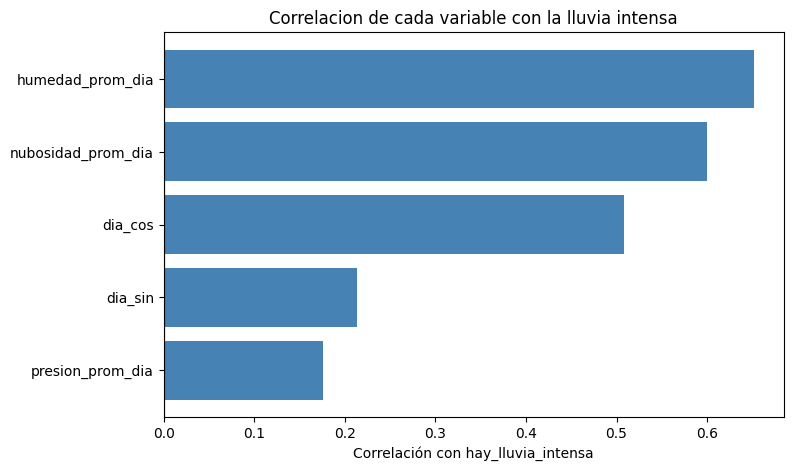
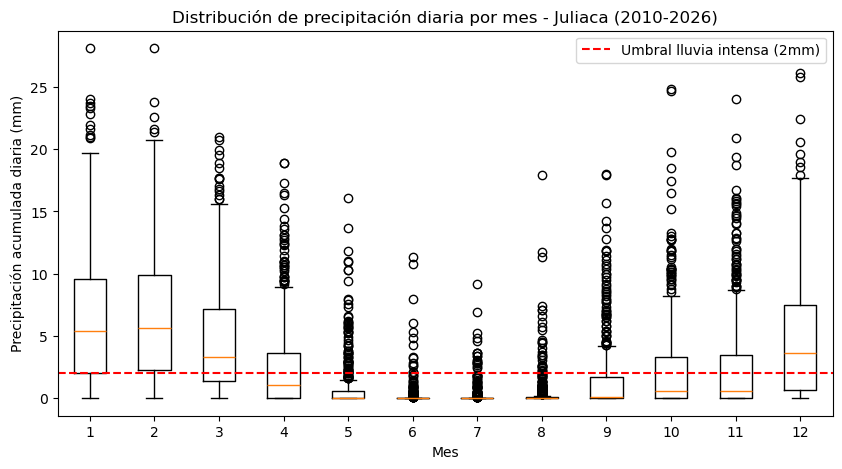
Actualizar resultados de precipitacion

diff --git a/docs/resultados/precipitacion/02_precipitacion_nayder.md b/docs/resultados/precipitacion/02_precipitacion_nayder.md
@@ -22,15 +22,6 @@ spark = (
 spark
 ```
 
-    WARNING: Using incubator modules: jdk.incubator.vector
-    Using Spark's default log4j profile: org/apache/spark/log4j2-defaults.properties
-    Setting default log level to "WARN".
-    To adjust logging level use sc.setLogLevel(newLevel). For SparkR, use setLogLevel(newLevel).
-    26/09/09 13:07:53 WARN NativeCodeLoader: Unable to load native-hadoop library for your platform... using builtin-java classes where applicable
-    26/09/09 13:07:54 WARN Utils: Service 'SparkUI' could not bind on port 4040. Attempting port 4041.
-    26/09/09 13:07:54 WARN Utils: Service 'SparkUI' could not bind on port 4041. Attempting port 4042.
-
-
 
 
 
@@ -41,11 +32,11 @@ spark
 <div>
     <p><b>SparkContext</b></p>
 
-    <p><a href="http://a59cd1fa6c04:4042">Spark UI</a></p>
+    <p><a href="http://611f57b01f92:4040">Spark UI</a></p>
 
     <dl>
       <dt>Version</dt>
-        <dd><code>v4.2.0</code></dd>
+        <dd><code>v3.5.0</code></dd>
       <dt>Master</dt>
         <dd><code>local[*]</code></dd>
       <dt>AppName</dt>
@@ -64,7 +55,7 @@ spark
 ```python
 from pyspark.sql.types import StructType, StructField, TimestampType, DoubleType
 
-ORIGEN_DATOS = "/opt/bigdata-u1/data"
+ORIGEN_DATOS = "data"
 
 schema_clima = StructType([
     StructField("time", TimestampType(), nullable=False),
@@ -106,6 +97,57 @@ print(f"Total filas: {df.count():,}")
     |2010-01-01 04:00:00|           4.9|          0.0|                83.0|       85.0|           5.9|           643.2|
     +-------------------+--------------+-------------+--------------------+-----------+--------------+----------------+
     only showing top 5 rows
+    
+    Total filas: 146,280
+
+
+
+```python
+from pyspark.sql.types import StructType, StructField, TimestampType, DoubleType
+
+ORIGEN_DATOS = "data"
+
+schema_clima = StructType([
+    StructField("time", TimestampType(), nullable=False),
+    StructField("temperature_2m", DoubleType(), nullable=True),
+    StructField("precipitation", DoubleType(), nullable=True),
+    StructField("relative_humidity_2m", DoubleType(), nullable=True),
+    StructField("cloud_cover", DoubleType(), nullable=True),
+    StructField("wind_speed_10m", DoubleType(), nullable=True),
+    StructField("surface_pressure", DoubleType(), nullable=True),
+])
+
+df = (
+    spark.read
+    .option("timestampFormat", "yyyy-MM-dd'T'HH:mm")
+    .csv(f"{ORIGEN_DATOS}/clima_juliaca_horario.csv", header=True, schema=schema_clima)
+)
+
+df.printSchema()
+df.show(5)
+print(f"Total filas: {df.count():,}")
+```
+
+    root
+     |-- time: timestamp (nullable = true)
+     |-- temperature_2m: double (nullable = true)
+     |-- precipitation: double (nullable = true)
+     |-- relative_humidity_2m: double (nullable = true)
+     |-- cloud_cover: double (nullable = true)
+     |-- wind_speed_10m: double (nullable = true)
+     |-- surface_pressure: double (nullable = true)
+    
+    +-------------------+--------------+-------------+--------------------+-----------+--------------+----------------+
+    |               time|temperature_2m|precipitation|relative_humidity_2m|cloud_cover|wind_speed_10m|surface_pressure|
+    +-------------------+--------------+-------------+--------------------+-----------+--------------+----------------+
+    |2010-01-01 00:00:00|           6.8|          0.0|                84.0|       93.0|           4.9|           645.3|
+    |2010-01-01 01:00:00|           5.5|          0.0|                91.0|       89.0|           6.2|           643.7|
+    |2010-01-01 02:00:00|           5.5|          0.0|                83.0|       91.0|           6.6|           643.4|
+    |2010-01-01 03:00:00|           5.1|          0.0|                83.0|       96.0|           6.2|           643.1|
+    |2010-01-01 04:00:00|           4.9|          0.0|                83.0|       85.0|           5.9|           643.2|
+    +-------------------+--------------+-------------+--------------------+-----------+--------------+----------------+
+    only showing top 5 rows
+    
     Total filas: 146,280
 
 
@@ -120,8 +162,6 @@ df.select([
 ]).show(vertical=True, truncate=False)
 ```
 
-    [Stage 4:=============================>                             (1 + 1) / 2]
-
     -RECORD 0-------------------
      time                 | 0   
      temperature_2m       | 0   
@@ -132,8 +172,6 @@ df.select([
      surface_pressure     | 0   
     
 
-
-                                                                                    
 
 ## 1.4 Gráfico de verificación de nulos
 
@@ -151,7 +189,7 @@ plt.show()
 
 
     
-![png](output_8_0.png)
+![png](output_9_0.png)
     
 
 
@@ -177,8 +215,6 @@ df_diario.orderBy("fecha").show(5)
 print(f"Total dias: {df_diario.count():,}")
 ```
 
-                                                                                    
-
     +----------+------------------+-----------------+------------------+-----------------+
     |     fecha|   precip_acum_dia| humedad_prom_dia|nubosidad_prom_dia| presion_prom_dia|
     +----------+------------------+-----------------+------------------+-----------------+
@@ -189,6 +225,7 @@ print(f"Total dias: {df_diario.count():,}")
     |2010-01-05|               3.7|77.79166666666667|            90.125|            647.1|
     +----------+------------------+-----------------+------------------+-----------------+
     only showing top 5 rows
+    
     Total dias: 6,095
 
 
@@ -196,16 +233,21 @@ print(f"Total dias: {df_diario.count():,}")
 
 
 ```python
+from pyspark.sql.functions import when
+
+UMBRAL_LLUVIA = 2.0
+
+df_diario = df_diario.withColumn(
+    "hay_lluvia_intensa",
+    when(col("precip_acum_dia") > UMBRAL_LLUVIA, 1.0).otherwise(0.0)
+)
+
 conteo_rdd = df_diario.rdd.filter(lambda fila: fila["hay_lluvia_intensa"] == 1.0).count()
 print(f"Dias con lluvia intensa (via RDD): {conteo_rdd:,}")
 ```
 
-    [Stage 577:>                                                        (0 + 1) / 1]
-
     Dias con lluvia intensa (via RDD): 2,164
 
-
-                                                                                    
 
 ## 1.6 Resumen mensual y gráfico de tendencia
 
@@ -235,7 +277,7 @@ plt.show()
 
 
     
-![png](output_14_0.png)
+![png](output_15_0.png)
     
 
 
@@ -269,6 +311,7 @@ df_diario.select("fecha", "precip_acum_dia", "hay_lluvia_intensa", "dia_anio", "
     |2010-02-11|               0.0|               0.0|      42|0.6616346182422783|0.7498264012045686|
     +----------+------------------+------------------+--------+------------------+------------------+
     only showing top 5 rows
+    
 
 
 ## 1.8 Evidencia del plan de ejecución (lazy evaluation)
@@ -336,7 +379,7 @@ assert total == sin_duplicar, "Hay fechas duplicadas en la agregacion diaria"
 ```python
 from pyspark.sql.functions import year
 
-RUTA_GOLD = "/opt/bigdata-u1/artifacts/precipitacion_gold"
+RUTA_GOLD = "artifacts/precipitacion_gold"
 
 df_diario_particionable = df_diario.withColumn("anio", year(col("fecha")))
 
@@ -354,8 +397,6 @@ print("Carpetas de particion creadas:")
 for carpeta in sorted(os.listdir(RUTA_GOLD)):
     print(" -", carpeta)
 ```
-
-                                                                                    
 
     Carpetas de particion creadas:
      - ._SUCCESS.crc
@@ -393,17 +434,13 @@ assert total_original == total_leido, "Se perdieron filas al escribir/leer el Pa
 df_gold.filter(col("anio") == 2022).explain()
 ```
 
-    [Stage 57:====>                                                   (1 + 11) / 12]
-
     Filas escritas: 6,095, filas leidas de vuelta: 6,095
     == Physical Plan ==
     *(1) ColumnarToRow
-    +- FileScan parquet [fecha#322,precip_acum_dia#323,humedad_prom_dia#324,nubosidad_prom_dia#325,presion_prom_dia#326,hay_lluvia_intensa#327,dia_anio#328,dia_sin#329,dia_cos#330,anio#331] Batched: true, DataFilters: [], Format: Parquet, Location: InMemoryFileIndex(1 paths)[file:/opt/bigdata-u1/artifacts/precipitacion_gold], PartitionFilters: [isnotnull(anio#331), (anio#331 = 2022)], PushedFilters: [], ReadSchema: struct<fecha:date,precip_acum_dia:double,humedad_prom_dia:double,nubosidad_prom_dia:double,presio...
+    +- FileScan parquet [fecha#775,precip_acum_dia#776,humedad_prom_dia#777,nubosidad_prom_dia#778,presion_prom_dia#779,hay_lluvia_intensa#780,dia_anio#781,dia_sin#782,dia_cos#783,anio#784] Batched: true, DataFilters: [], Format: Parquet, Location: InMemoryFileIndex(1 paths)[file:/home/jovyan/u1/artifacts/precipitacion_gold], PartitionFilters: [isnotnull(anio#784), (anio#784 = 2022)], PushedFilters: [], ReadSchema: struct<fecha:date,precip_acum_dia:double,humedad_prom_dia:double,nubosidad_prom_dia:double,presio...
     
     
 
-
-                                                                                    
 
 ## 1.12 Resumen mensual (probabilidad de lluvia intensa) y gráfico de tendencia
 
@@ -431,7 +468,7 @@ plt.show()
 
 
     
-![png](output_26_0.png)
+![png](output_27_0.png)
     
 
 
@@ -449,7 +486,7 @@ datos_boxplot = (
 grupos = [datos_boxplot[datos_boxplot["mes"] == m]["precip_acum_dia"].values for m in range(1, 13)]
 
 plt.figure(figsize=(10, 5))
-plt.boxplot(grupos, tick_labels=range(1, 13))
+plt.boxplot(grupos, labels=range(1, 13))
 plt.axhline(y=2, color="red", linestyle="--", label="Umbral lluvia intensa (2mm)")
 plt.xlabel("Mes")
 plt.ylabel("Precipitación acumulada diaria (mm)")
@@ -460,7 +497,7 @@ plt.show()
 
 
     
-![png](output_28_0.png)
+![png](output_29_0.png)
     
 
 
@@ -492,7 +529,7 @@ plt.show()
 
 
     
-![png](output_31_0.png)
+![png](output_32_0.png)
     
 
 
@@ -524,7 +561,7 @@ plt.show()
 
 
     
-![png](output_33_0.png)
+![png](output_34_0.png)
     
 
 
@@ -553,17 +590,9 @@ print(f"Filas train: {df_train.count():,}")
 print(f"Filas test: {df_test.count():,}")
 ```
 
-                                                                                    
+    Filas train: 4,871
+    Filas test: 1,224
 
-    Filas train: 4,896
-
-
-    [Stage 63:==========================================>              (9 + 3) / 12]
-
-    Filas test: 1,199
-
-
-                                                                                    
 
 ## 1.17 Entrenar y evaluar Config A (solo estacionalidad)
 
@@ -586,13 +615,8 @@ f1_simple = evaluador_f1.evaluate(predicciones_log_simple)
 print(f"Config A (solo dia del anio) -> AUC: {auc_simple:.4f}, F1: {f1_simple:.4f}")
 ```
 
-    netlib-blas: JNI_OnLoad: dlopen(libblas.so.3) failed: libblas.so.3: cannot open shared object file: No such file or directory
-    [Stage 104:====>                                                  (1 + 11) / 12]
+    Config A (solo dia del anio) -> AUC: 0.8305, F1: 0.7678
 
-    Config A (solo dia del anio) -> AUC: 0.8369, F1: 0.7728
-
-
-                                                                                    
 
 ## 1.18 Entrenar y evaluar Config B (estacionalidad + contexto meteorológico)
 
@@ -618,21 +642,19 @@ print(f"Config B (dia + humedad + nubosidad + presion) -> AUC: {auc_enriquecido:
 
 
 ```python
-evaluador_precision = MulticlassClassificationEvaluator(labelCol="hay_lluvia_intensa", predictionCol="prediction", metricName="weightedPrecision")
-evaluador_recall = MulticlassClassificationEvaluator(labelCol="hay_lluvia_intensa", predictionCol="prediction", metricName="weightedRecall")
+log_enriquecido = LogisticRegression(featuresCol="features_enriquecido", labelCol="hay_lluvia_intensa")
+modelo_log_enriquecido = log_enriquecido.fit(df_train)
 
-precision_b = evaluador_precision.evaluate(predicciones_log_enriquecido)
-recall_b = evaluador_recall.evaluate(predicciones_log_enriquecido)
+predicciones_log_enriquecido = modelo_log_enriquecido.transform(df_test)
 
-print(f"Config B -> Precision: {precision_b:.4f}, Recall: {recall_b:.4f}")
+auc_enriquecido = evaluador_auc.evaluate(predicciones_log_enriquecido)
+f1_enriquecido = evaluador_f1.evaluate(predicciones_log_enriquecido)
+
+print(f"Config B (dia + humedad + nubosidad + presion) -> AUC: {auc_enriquecido:.4f}, F1: {f1_enriquecido:.4f}")
 ```
 
-                                                                                    
+    Config B (dia + humedad + nubosidad + presion) -> AUC: 0.9411, F1: 0.8680
 
-    Config B -> Precision: 0.8745, Recall: 0.8732
-
-
-                                                                                    
 
 ## 1.19 Matriz de confusión - Config B
 
@@ -668,7 +690,7 @@ plt.show()
 
 
     
-![png](output_43_1.png)
+![png](output_44_1.png)
     
 
 
@@ -704,7 +726,7 @@ plt.show()
 
 
     
-![png](output_45_0.png)
+![png](output_46_0.png)
     
 
 
@@ -712,12 +734,17 @@ plt.show()
 
 
 ```python
-RUTA_MODELO = "/opt/bigdata-u1/artifacts/modelo_precipitacion_config_b"
+RUTA_MODELO = "artifacts/modelo_precipitacion_config_b"
 
 modelo_log_enriquecido.write().overwrite().save(RUTA_MODELO)
 
 print(f"Modelo guardado en: {RUTA_MODELO}")
 ```
 
-    Modelo guardado en: /opt/bigdata-u1/artifacts/modelo_precipitacion_config_b
+    Modelo guardado en: artifacts/modelo_precipitacion_config_b
 
+
+
+```python
+
+```
